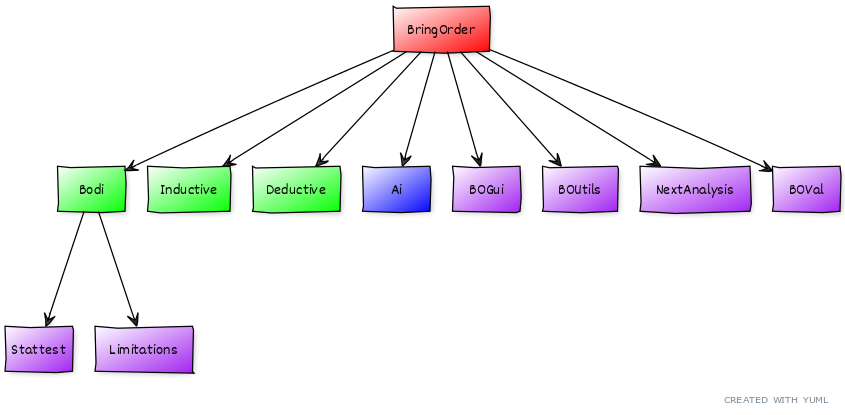
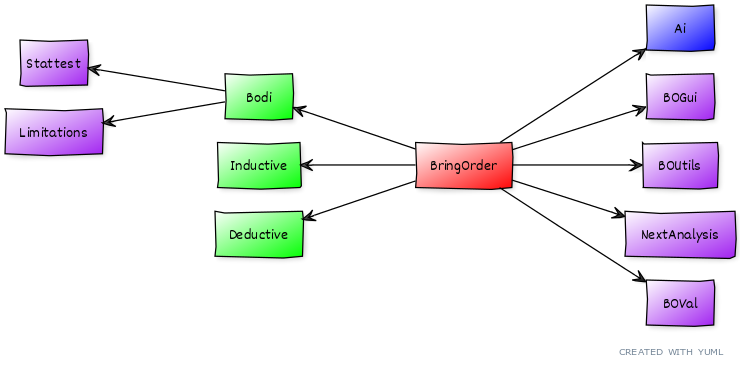
update documentation

diff --git a/documentation/architecture.md b/documentation/architecture.md
@@ -8,7 +8,14 @@ The `Deductive` class takes care of the former and the `Inductive` class of the 
 All these classes depend on the `BOGui` class that consists of general methods for creating Jupyter widgets and the `BOUtils` class that has methods for executing Javascript inside Jupyter Notebook.
 
 ## Class Diagram
-Image coming up...
+Simple class diagram of BringOrder:
+
+![Class diagram](./pictures/classdiag_simple.png)
+
+More detailed class diagrams:
+
+- [Class diagram with functions](./pictures/classdiag_with_functions.png)
+- [Full Class diagram with class variables and functions](./pictures/classdiag_with_functions.png)
 
 ## Class Details
 ### BringOrder
@@ -46,3 +53,15 @@ Methods:
 The [BOUtils](https://github.com/Order-Team/bring-order/blob/main/bring_order/boutils.py) class consists of methods that run Javascript inside Jupyter Notebook. They are used to, for example, create, run, and delete code and Markdown cells.
 A BOUtils object is also created automatically with a BringOrder object and shared with other created objects.
 
+### BOVal
+
+### NextAnalysis
+
+### Ai
+
+### Stattest
+
+## Decription of functionality
+
+- [Sequence diagram of initialization](./pictures/BO_init_seqdiag.png)
+- [Sequence diagram of Bodi](./pictures/BO_Bodi_seqdiag.png)
